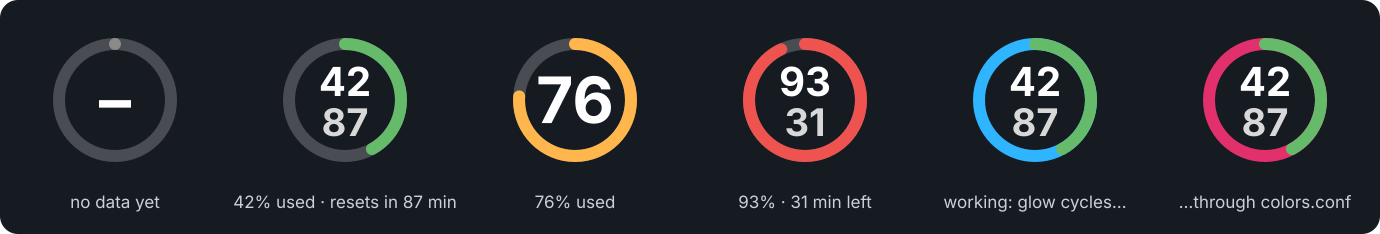
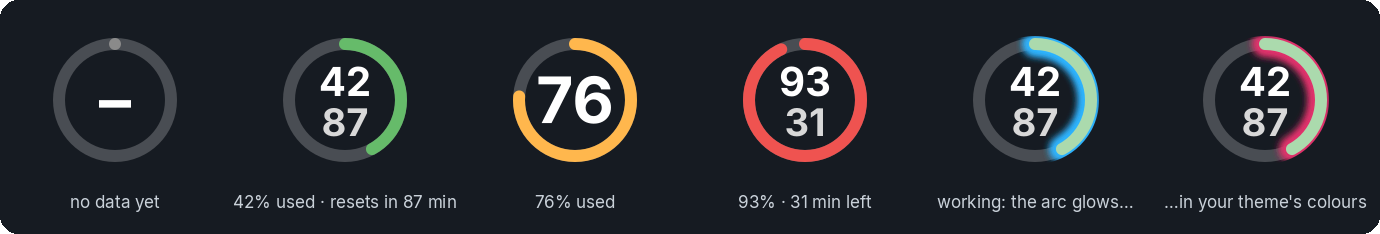
tray: glow on the usage arc instead of the ring behind it
While a chat is working, the track and the inside of the ring now stay
as they are: only the filled arc glows, with a blurred halo in the theme
colours, and flashes brighter on every beat. The glow behind the number
is gone. README image re-rendered.

diff --git a/README.md b/README.md
@@ -40,7 +40,7 @@ working and pings you when a long job is done.
   not a terminal that wandered in.
 - **Reveal effects.** A KWin effect draws how it appears and disappears: **glitch**, **decrypt**, **scan**, a plain **slide**, or nothing.
 - **Usage at a glance.** A tray icon shows how much of your 5-hour Claude window you've used and the minutes until it resets,
-  and pulses while Claude is working.
+  and its usage arc glows and flashes in your theme's colours while Claude is working.
 
 Under the hood it's a [Ghostty](https://ghostty.org) quick terminal running Claude Code, with a KWin effect, a KWin script and a
 small tray app around it. Made on Arch Linux, for any distro with Plasma 6 on Wayland.
